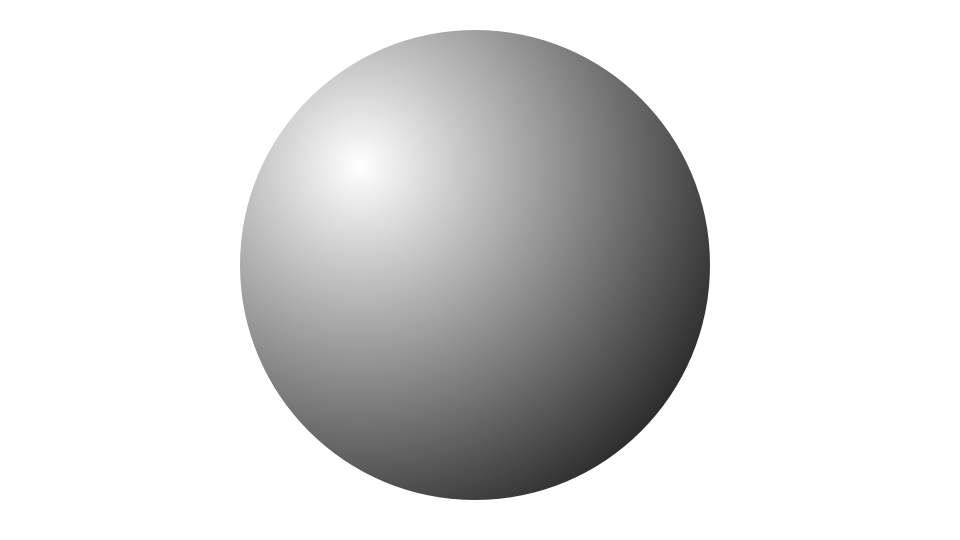
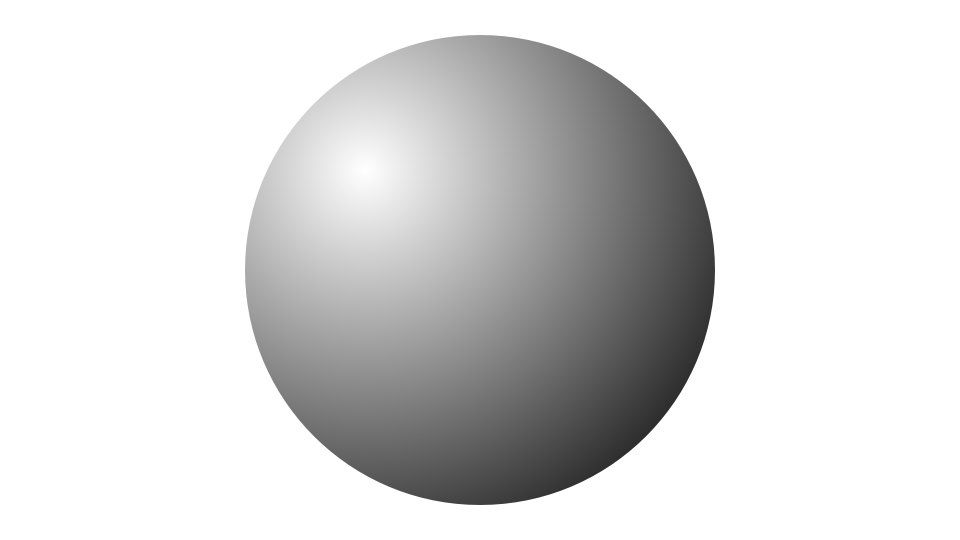
not as easy as previously thought

diff --git a/game.core.js b/game.core.js
@@ -871,14 +871,15 @@ game_player.prototype.update_physics = function (delta) {
   }
 
   // apply gravity to the current acceleration
-  this.acc = utils.pos_sum(this.acc, utils.pos_scalar_mult(this.game.config.gravity_vector, delta * this.weight));
+  var gravity_vector = utils.pos_scalar_mult( utils.pos_sum(this.pos, {x: -480, y: -270}), -1 );
+  this.acc = utils.pos_sum(this.acc, utils.pos_scalar_mult(gravity_vector, delta * this.weight));
   // apply the current acceleration to the position
   this.pos = utils.pos_sum(this.pos, utils.pos_scalar_mult(this.acc, delta));
 
   // check collision with the ground
   if (this.game.terrain.check_collision_at_point(this.pos)) {
     this.pos.y = (this.game.terrain.ground_level_above_point(this.pos)).fixed(3);
-    this.acc.y = 0;
+    this.acc = {x: 0, y:0};
   }
 
   this.cannon = utils.angle_sum(this.cannon, utils.angle_scalar_mult(this.inputs_vector.cannon, (20 * delta).fixed(3)));
